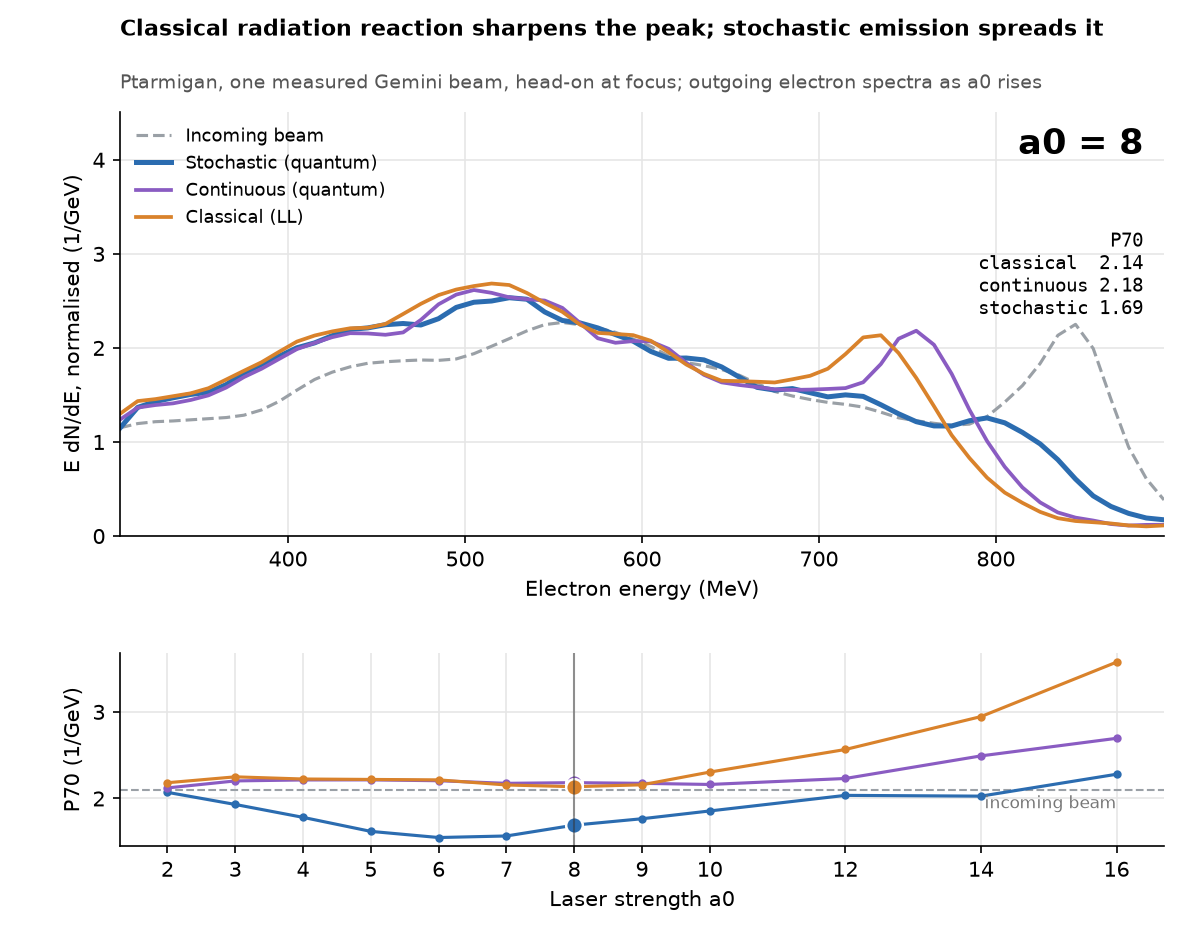
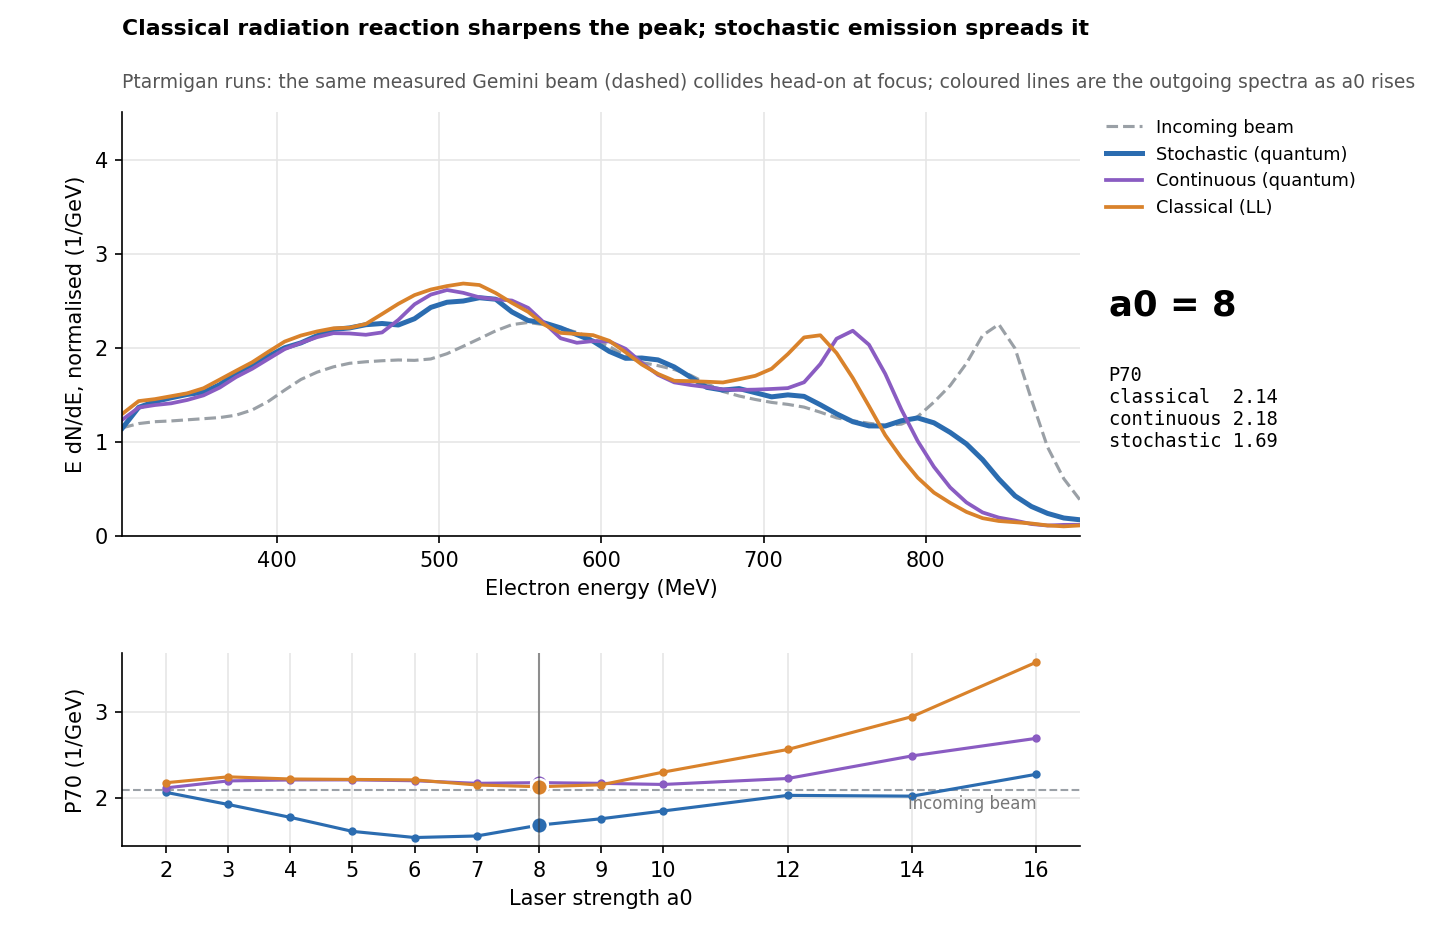
rr_sweep animation: legend and readout outside the plot; clearer subtitle

diff --git a/scripts/make_figures.py b/scripts/make_figures.py
@@ -80,20 +80,21 @@ def sweep_gif(hold_ms=2200, step_ms=110, steps=8, end_ms=4000):
         i = int(np.floor(s)); f = s - i
         return arr[i] if f == 0 or i + 1 >= len(arr) else (1 - f) * arr[i] + f * arr[i + 1]
 
-    fig = plt.figure(figsize=(8.0, 6.2))
-    gs = fig.add_gridspec(2, 1, height_ratios=[2.2, 1], hspace=0.38, left=0.1, right=0.97, top=0.88, bottom=0.09)
+    fig = plt.figure(figsize=(9.6, 6.2))
+    # legend, a0 label and P70 readout sit in a right-hand margin, so they never cover the curves
+    gs = fig.add_gridspec(2, 1, height_ratios=[2.2, 1], hspace=0.38, left=0.085, right=0.75, top=0.88, bottom=0.09)
     ax, bx = fig.add_subplot(gs[0]), fig.add_subplot(gs[1])
     fig.suptitle("Classical radiation reaction sharpens the peak; stochastic emission spreads it",
-                 x=0.1, ha="left", fontsize=10.5, fontweight="bold")
-    fig.text(0.1, 0.905, "Ptarmigan, one measured Gemini beam, head-on at focus; outgoing electron spectra as a0 rises",
-             fontsize=9, color="#555")
+                 x=0.085, ha="left", fontsize=10.5, fontweight="bold")
+    fig.text(0.085, 0.905, "Ptarmigan runs: the same measured Gemini beam (dashed) collides head-on at focus; "
+             "coloured lines are the outgoing spectra as a0 rises", fontsize=9, color="#555")
     ax.plot(E, d["incoming"], ls="--", color=COL["incoming"], lw=1.5, label="Incoming beam")
     lines = {m: ax.plot(E, Y[m][0], color=COL[m], lw=2.4 if m == "stochastic" else 1.8, label=NAME[m])[0] for m in MODELS}
     ymax = max(Y[m].max() for m in MODELS) * 1.05
     ax.set(xlim=(E[0], E[-1]), ylim=(0, ymax), xlabel="Electron energy (MeV)", ylabel="E dN/dE, normalised (1/GeV)")
-    ax.legend(loc="upper left", fontsize=8.5)
-    label = ax.text(0.98, 0.9, "", transform=ax.transAxes, ha="right", fontsize=17, fontweight="bold")
-    ax_txt = ax.text(0.98, 0.72, "", transform=ax.transAxes, ha="right", va="top", fontsize=9, family="monospace")
+    ax.legend(loc="upper left", bbox_to_anchor=(1.02, 1.0), fontsize=8.5, borderaxespad=0)
+    label = ax.text(1.03, 0.52, "", transform=ax.transAxes, ha="left", fontsize=17, fontweight="bold")
+    ax_txt = ax.text(1.03, 0.40, "", transform=ax.transAxes, ha="left", va="top", fontsize=9, family="monospace")
     bx.axhline(d["incoming_P70"], ls="--", color=COL["incoming"], lw=1)
     bx.text(a0s[-1], d["incoming_P70"] - 0.06, "incoming beam", color="#777", fontsize=8, ha="right", va="top")
     for m in MODELS:
